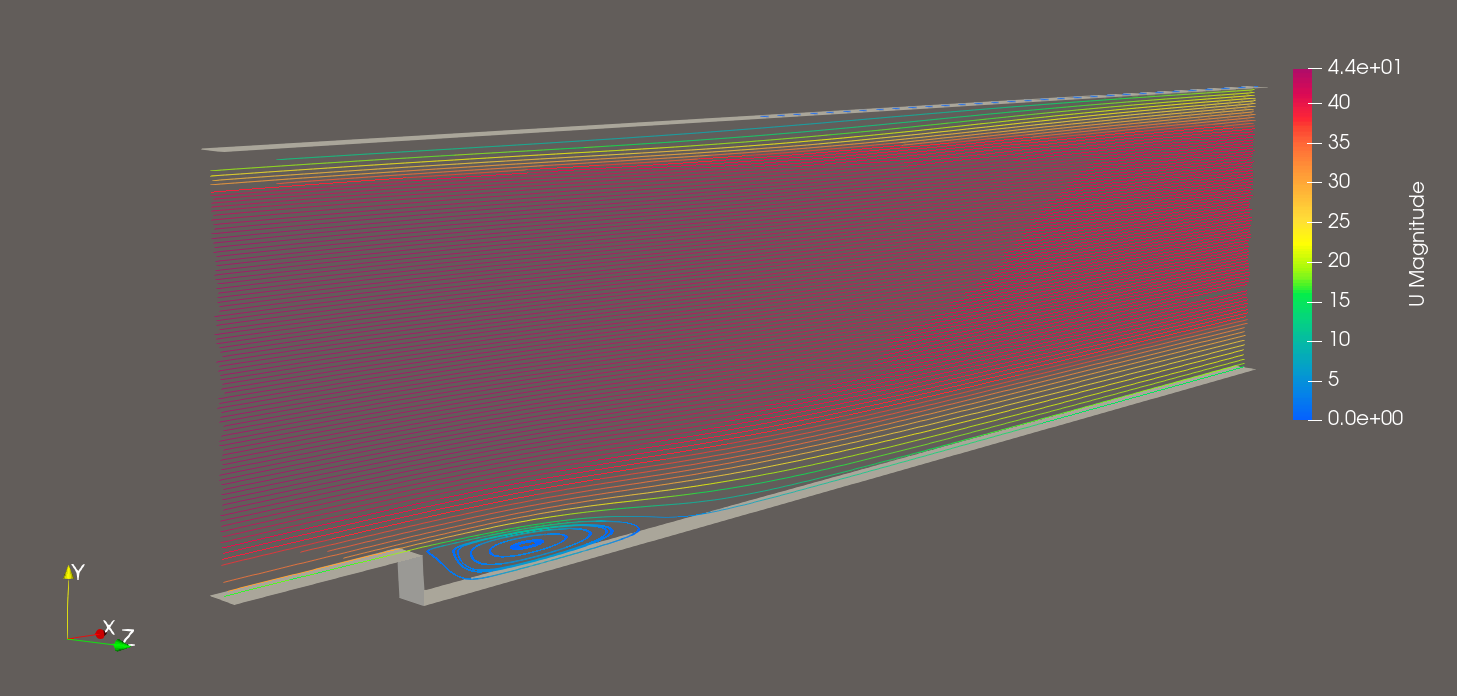
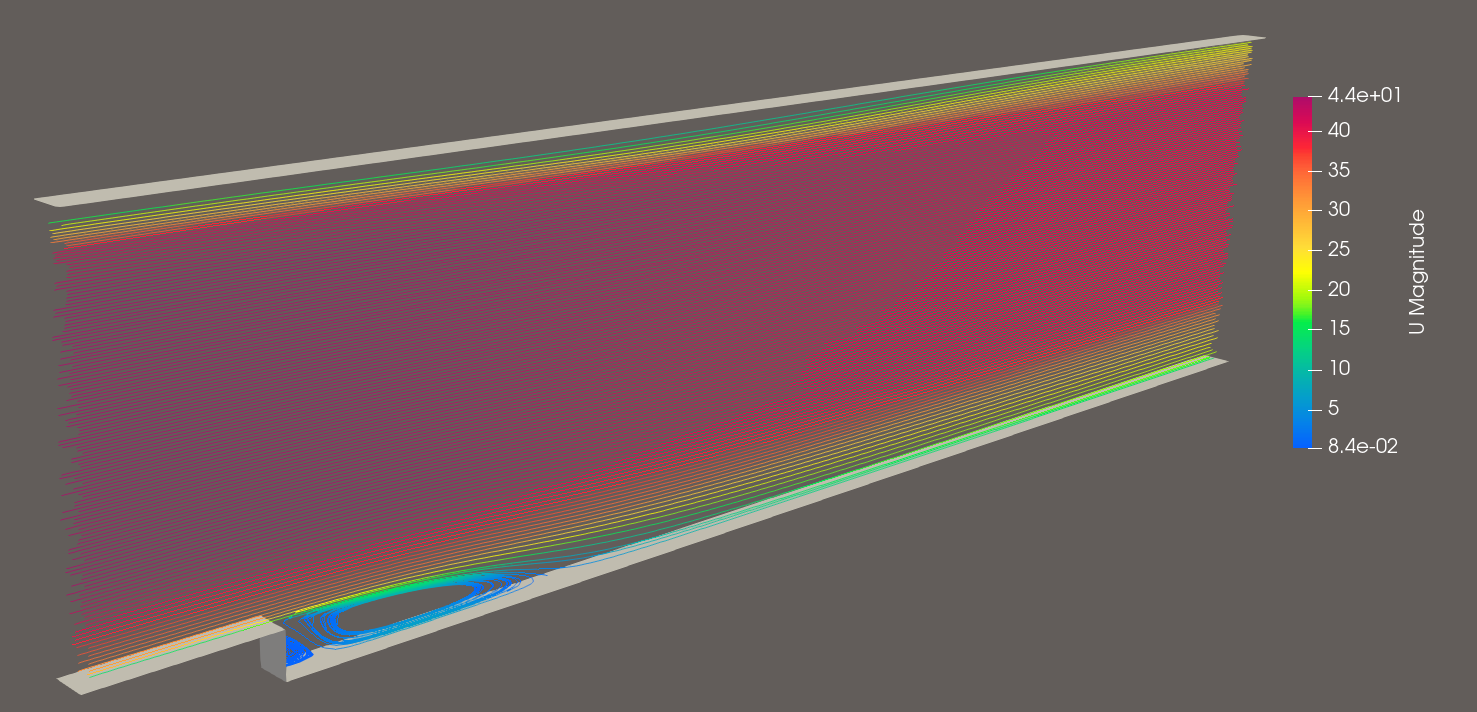
v170626

diff --git a/README2.md b/README2.md
@@ -1,0 +1,165 @@
+# Steady Flow Over a Two-Dimensional Backward-Facing Step
+
+## Reference Case
+
+This study is based on the experimental investigation reported by:
+
+> D.M. Driver and H.L. Seegmiller, *Features of a Reattaching Turbulent Shear Layer in Divergent Channel Flow*, AIAA Journal, Vol. 23, No. 2, 1985, pp. 163–171.
+
+---
+
+## Introduction
+
+The backward-facing step is a canonical benchmark case for the validation of turbulence models in separated flows. The sudden expansion induces flow separation, the formation of a recirculation region, and subsequent reattachment downstream of the step.
+
+The objective of this project is to evaluate the performance of OpenFOAM's `simpleFoam` solver by comparing numerical predictions against the experimental measurements of Driver and Seegmiller. The workflow is fully automated, including mesh generation, case setup, execution, post-processing, and validation.
+
+The repository is structured to facilitate further parametric studies involving variations in mesh resolution, inlet conditions, domain dimensions, and wall geometry.
+
+---
+
+## Objectives
+
+* Validate OpenFOAM predictions against experimental data.
+* Assess the ability of a RANS turbulence model to capture separation and reattachment.
+* Quantify numerical accuracy through mesh independence studies.
+* Compare velocity profiles and skin-friction distributions with published measurements.
+
+---
+
+## Flow Conditions
+
+The Reynolds number based on momentum thickness is approximately 5000 at four step heights upstream of the expansion.
+
+The freestream velocity is 44.2 m/s at atmospheric pressure and temperature, corresponding to a Mach number of 0.128. Compressibility effects are therefore expected to be negligible.
+
+The experimentally measured reattachment length is:
+
+**x/H = 6.26 ± 0.10**
+
+### Computational Domain
+
+![Flow Geometry (not to scale)](images/domain.png)
+
+---
+
+## Numerical Setup
+
+### Mesh Generation
+
+The computational mesh is generated using `blockMesh`.
+
+Domain dimensions, step geometry, and grading parameters can be modified directly through the `blockMeshDict` file.
+
+To assist mesh generation:
+
+* `calc_grading.py` computes grading factors from domain dimensions, cell counts, and first-cell heights.
+* `mesh_config.txt` defines mesh resolution and grading parameters.
+* `run_mesh.sh` regenerates the mesh automatically.
+
+### Solver Configuration
+
+The simulation is executed using OpenFOAM's steady-state incompressible solver `simpleFoam`.
+
+Boundary conditions are defined as follows:
+
+| Boundary | Condition                     |
+| -------- | ----------------------------- |
+| Inlet    | Experimental velocity profile |
+| Outlet   | Atmospheric pressure          |
+| Walls    | No-slip                       |
+
+### Mesh Independence Study
+
+Three structured meshes were evaluated:
+
+| Mesh   | Number of Cells |
+| ------ | --------------- |
+| Coarse | ~12,000         |
+| Medium | ~28,000         |
+| Fine   | ~56,000         |
+
+The mesh sensitivity study was performed using the RMS L2 norm of velocity profile differences at multiple streamwise locations.
+
+Only minor differences were observed between the medium and fine meshes. Consequently, the medium mesh was selected for all subsequent analyses.
+
+---
+
+## Results
+
+### Flow Topology
+
+As expected, the sudden expansion generates an adverse pressure gradient that causes boundary-layer separation and the formation of a recirculation bubble downstream of the step.
+
+<img src="images/streamlines.png" alt="Velocity coloured streamlines through the duct" width="70%">
+
+---
+
+### Velocity Profile Comparison
+
+Predicted velocity profiles are compared against experimental measurements at multiple streamwise locations.
+
+<img src="images/velocity_profiles.png" alt="Velocity profiles (experimental data vs OpenFOAM)" width="70%">
+
+The numerical solution reproduces the overall flow behaviour with reasonable accuracy, including:
+
+* The location of flow reattachment.
+* The general shape of the recirculation region.
+* The near-wall reverse-flow region downstream of the step.
+
+---
+
+### Near-Wall Behaviour
+
+A closer inspection of the lower-wall region reveals noticeable discrepancies between numerical and experimental data.
+
+<img src="images/velocity_profiles_close-up.png" alt="Velocity profiles (close-up at lower wall)" width="70%">
+
+The largest differences occur within the separated shear layer and near-wall recovery region.
+
+These discrepancies are consistent with known limitations of eddy-viscosity RANS turbulence models in separated flows. The numerical solution exhibits a tendency toward excessive turbulent mixing, causing the shear layer to diffuse more rapidly and recover toward equilibrium earlier than observed experimentally.
+
+---
+
+### Skin-Friction Distribution
+
+The influence of these modelling assumptions is further illustrated by the wall skin-friction coefficient distribution.
+
+<img src="images/Cf.png" alt="Skin friction coefficient (experimental data vs OpenFOAM)" width="70%">
+
+While the overall behaviour is captured successfully, differences in the predicted skin-friction recovery indicate that the numerical model does not fully reproduce the detailed dynamics of the separated shear layer.
+
+---
+
+## Discussion
+
+The backward-facing step remains a challenging validation case due to the presence of:
+
+* Flow separation and reattachment.
+* Strong shear-layer development.
+* Turbulence anisotropy.
+* Large coherent flow structures.
+
+Although the present simulation reproduces the principal flow features, some deviations from experimental measurements remain.
+
+It should also be noted that the experimental configuration is inherently three-dimensional, with side-wall effects and spanwise flow structures influencing the measured data. In contrast, the numerical model is treated as a two-dimensional configuration, which may contribute to the observed differences in downstream recovery behaviour.
+
+---
+
+## Key Findings
+
+* Good agreement was obtained for the overall velocity field and reattachment behaviour.
+* The predicted reattachment location is close to the experimental value.
+* Velocity profile discrepancies are primarily confined to the near-wall region and separated shear layer.
+* The numerical solution exhibits faster downstream recovery than observed experimentally.
+* Results are consistent with known limitations of RANS turbulence modelling for separated flows.
+
+---
+
+## References
+
+Driver, D.M. and Seegmiller, H.L. (1985), *Features of a Reattaching Turbulent Shear Layer in Divergent Channel Flow*, AIAA Journal, 23(2), 163–171.
+
+Additional information and validation data are available through the OpenFOAM verification and validation documentation:
+
+https://www.openfoam.com/documentation/guides/latest/doc/verification-validation-turbulent-backward-facing-step.html

diff --git a/README.md b/README.md
@@ -34,7 +34,30 @@ The case runs using the ***execution.sh*** script.
 
 ### Results discussion
 
-<img src="images/streamlines.png" alt="Velocity colored streamlines through the duct" width="50%">
+As expected the flow separates after the step due to adverse pressure gradients, which causes a recirculation bubble:
+<img src="images/streamlines.png" alt="Velocity colored streamlines through the duct" width="70%">
+
+Velocity profiles are captured relatively accurately away from the lower wall and close to the upper wall:
+<img src="images/velocity_profiles.png" alt="Velocity profiles (experimental data vs OpenFOAM)" width="70%">
+
+Things immediately evident:
+1. Reattachment roughly in the right location
+2. Recirculation zone shape reasonably well
+3. Near-wall reverse flow reasonably well
+
+
+However looking closer at the near-wall velocity profiles for the lower part of the duct, there is not a very good agreement between the 2 datasets:
+
+<img src="images/velocity_profiles_close-up.png" alt="Velocity profiles (close-up at lower wall)" width="70%">
+
+
+This is a proof that RANS models overpredict turbulent mixing, diffuse the shear layer too quickly and recover to equilibrium too fast. This incorrect velocity profile capturing leads in turn in discrepancies at the developed shear, thus the reattachment location:
+
+<img src="images/Cf.png" alt="Skin friction coefficient (experimental data vs OpenFOAM)" width="70%">
+
+
+Worth keeping in mind that the ERCOFTAC experiment is an inherently 3D case with side wall effects, large scale coherent structures and most importantly turbulence anisotropy. On the other hand, OpenFOAM setup is a 2.5D case which tends to lead towards a developed flow faster.
+
 
 
 For further information please visit:
